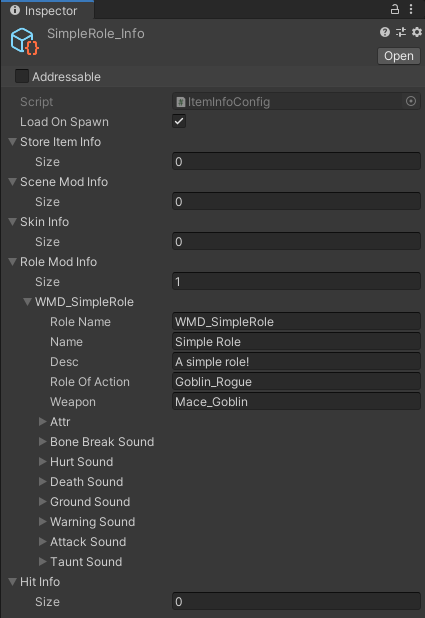
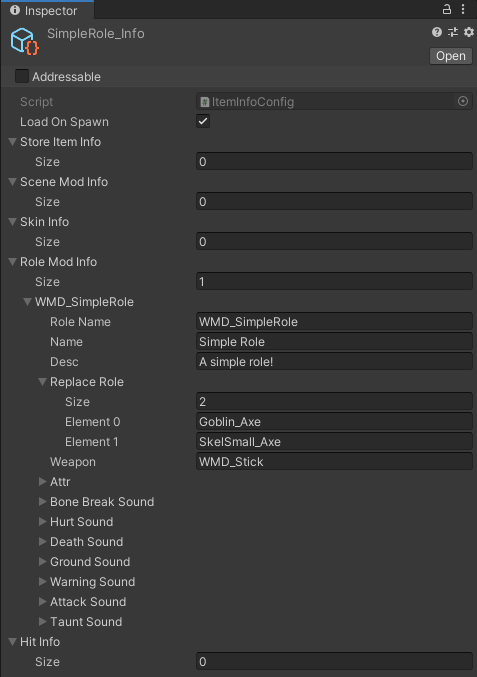
file update

diff --git a/website/docs/tutorials/5.create-a-role-mod.md b/website/docs/tutorials/5.create-a-role-mod.md
@@ -24,6 +24,16 @@ Adjust the direction of the node, the z-axis direction of LWeapon Point is the d
 
 ![](E:\xlua-battletalent-docs\website\docs\tutorials\5.create-a-role-mod\setweaponpoint.png)
 
+Create two empty nodes under the Chest node, named "LWeapon Spine" and "RWeapon Spine",  This is the hanging point of the weapon, again requiring an angle adjustment.
+
+![](E:\xlua-battletalent-docs\website\docs\tutorials\5.create-a-role-mod\LWeaponSpine.png)
+
+Apply.
+
+![](E:\xlua-battletalent-docs\website\docs\tutorials\5.create-a-role-mod\Apply.png)
+
+
+
 
 
 #### 3.Save Model
@@ -58,11 +68,11 @@ Fill in the RoleModInfo
 
 ![](E:\xlua-battletalent-docs\website\docs\tutorials\5.create-a-role-mod\filliteminfoconfig.png)
 
-**roleOfAction**: the actions of the generated character replicates the actions of the character in this game. here is the name of this character.
+**ReplaceRole**: Replaceable NPC in the game.
 
-**weapon**: character's weapon.
+**Weapon**: character's weapon.
 
-To know more about **roleOfAction** and **weapon**, please read [Role and Weapon](..\details\role-and-weapon.md).
+To know more about **ReplaceRole** and **Weapon**, please read [Role and Weapon](..\details\role-and-weapon.md).
 
 
 

diff --git a/website/docs/tutorials/create-combat-room.md b/website/docs/tutorials/create-combat-room.md
@@ -16,17 +16,7 @@ Here is an example of creating a battle room in a scene.
 
 
 
-#### 3.Create the WaveGroup file
-
-<img src="E:\xlua-battletalent-docs\website\docs\tutorials\6.create-a-combat-room\wavegroup.png" style="zoom:80%;" />
-
-Fill in the enemy type
-
-<img src="E:\xlua-battletalent-docs\website\docs\tutorials\6.create-a-combat-room\fillwavegroup.png" style="zoom:67%;" />
-
-
-
-#### 4.Create the WaveGenerator file
+#### 3.Create the WaveGenerator file
 
 ![](E:\xlua-battletalent-docs\website\docs\tutorials\6.create-a-combat-room\wavegenerator.png)
 
